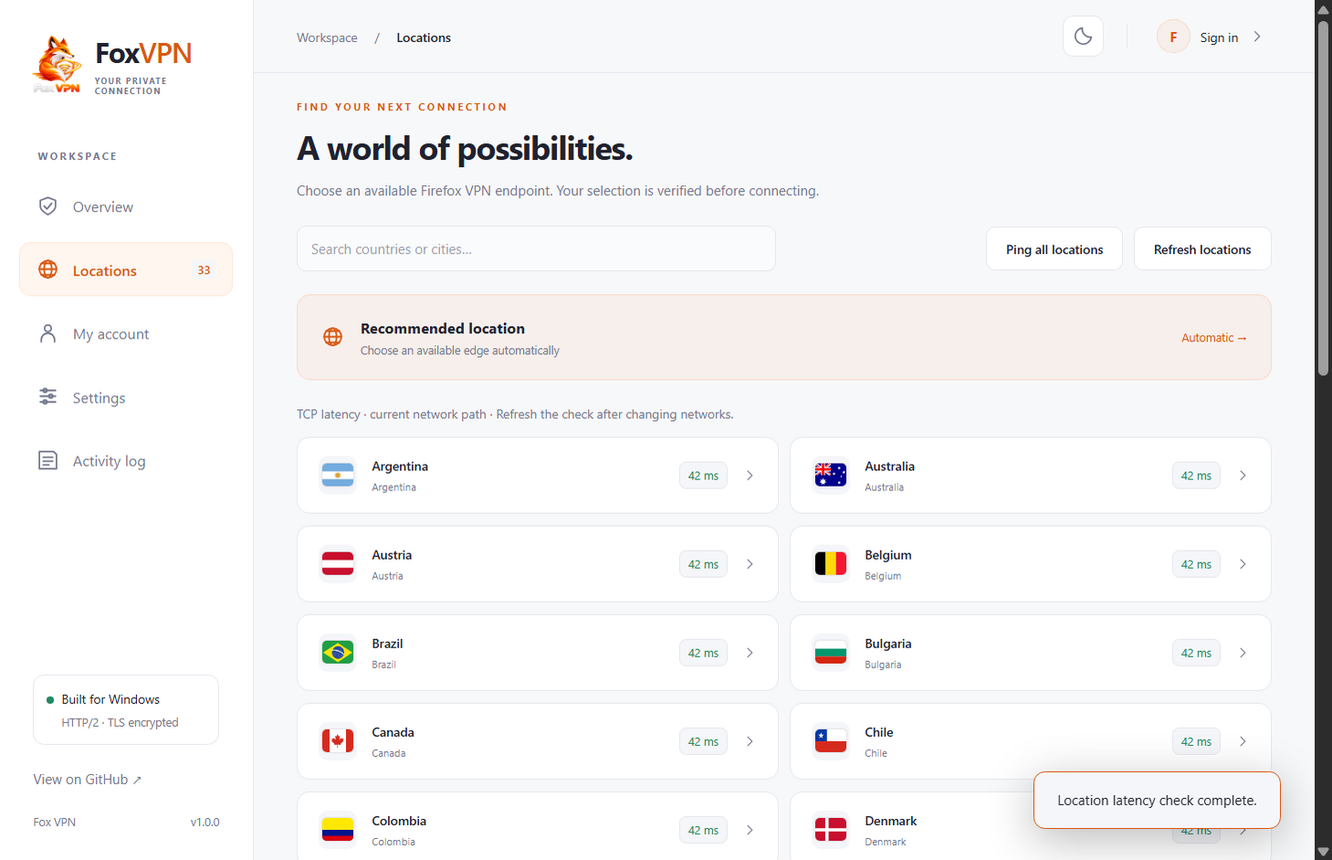
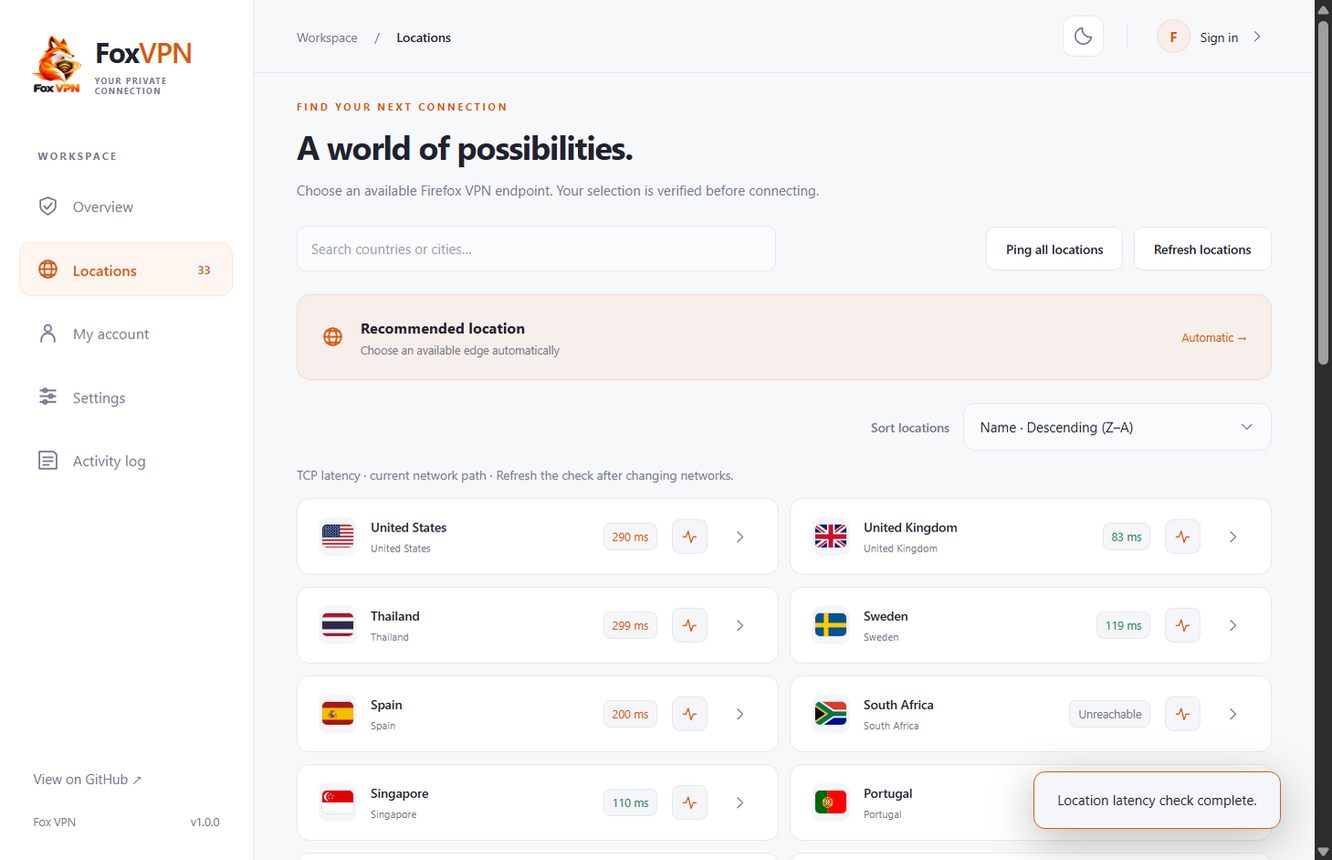
Add architecture-matched Windows builds and improve location controls

diff --git a/src/ui/index.html b/src/ui/index.html
@@ -14,6 +14,7 @@
   <symbol id="glyph-moon" viewBox="0 0 24 24"><path d="M20.5 13A8.5 8.5 0 0 1 11 3.5 8.5 8.5 0 1 0 20.5 13Z"/></symbol>
   <symbol id="glyph-download" viewBox="0 0 24 24"><path d="M12 3v14m-5-5 5 5 5-5M4 20h16"/></symbol>
   <symbol id="glyph-upload" viewBox="0 0 24 24"><path d="M12 21V7m-5 5 5-5 5 5M4 3h16"/></symbol>
+  <symbol id="glyph-ping" viewBox="0 0 24 24"><path d="M3 12h4l3-8 4 16 3-8h4"/></symbol>
   <symbol id="glyph-clock" viewBox="0 0 24 24"><circle cx="12" cy="12" r="9"/><path d="M12 7v5l3 2"/></symbol>
 </defs></svg>
 <aside class="sidebar">
@@ -26,7 +27,7 @@
     <button data-page="settings" class="nav-item"><svg><use href="#glyph-settings"/></svg>Settings</button>
     <button data-page="logs" class="nav-item"><svg><use href="#glyph-logs"/></svg>Activity log</button>
   </nav>
-  <div class="sidebar-bottom"><div class="engine-badge"><span class="small-dot"></span>Built for Windows<small>HTTP/2 · TLS encrypted</small></div><button id="source" class="subtle">View on GitHub ↗</button><div class="version">Fox VPN <span>v1.0.0</span></div></div>
+  <div class="sidebar-bottom"><button id="source" class="subtle">View on GitHub ↗</button><div class="version">Fox VPN <span>v1.0.0</span></div></div>
 </aside>
 <div class="workspace">
   <header><div class="breadcrumbs">Workspace <span>/</span> <strong id="page-label">Overview</strong></div><div class="header-actions"><button id="theme-toggle" class="icon-button" title="Toggle appearance" aria-label="Toggle dark and light theme"><svg><use href="#glyph-sun"/></svg></button><span class="header-divider"></span><button id="account-shortcut" class="account-chip"><span class="avatar">F</span><span id="account-name">Sign in</span><svg><use href="#glyph-arrow"/></svg></button></div></header>
@@ -53,10 +54,10 @@
       <div class="metrics"><div class="metric"><span class="metric-icon"><svg><use href="#glyph-download"/></svg></span><div><small>DOWNLOADED</small><strong id="downloaded">0 B</strong><em id="download-speed">0 B/s</em></div></div><div class="metric"><span class="metric-icon"><svg><use href="#glyph-upload"/></svg></span><div><small>UPLOADED</small><strong id="uploaded">0 B</strong><em id="upload-speed">0 B/s</em></div></div><div class="metric"><span class="metric-icon"><svg><use href="#glyph-clock"/></svg></span><div><small>SESSION TIME</small><strong id="session-time">00:00:00</strong><em>Current connection</em></div></div></div>
       <div class="info-strip"><span class="small-dot"></span><span id="home-info">Sign in with your Firefox account to get started.</span><button id="home-account" class="text-button">Manage account →</button></div>
     </section>
-    <section id="locations" class="page"><div class="page-heading"><div class="eyebrow">FIND YOUR NEXT CONNECTION</div><h1>A world of possibilities.</h1><p>Choose an available Firefox VPN endpoint. Your selection is verified before connecting.</p></div><div class="toolbar"><input id="server-search" type="search" placeholder="Search countries or cities…" aria-label="Search locations"><div class="button-row"><button id="ping-servers" class="secondary">Ping all locations</button><button id="refresh-servers" class="secondary">Refresh locations</button></div></div><button id="recommended" class="recommended"><svg><use href="#glyph-globe"/></svg><div><strong>Recommended location</strong><small>Choose an available edge automatically</small></div><span>Automatic →</span></button><p id="ping-status" class="muted">TCP latency from your current network path. Run a check to compare locations.</p><div id="server-list" class="server-list"></div><p class="muted" id="server-empty">Loading available locations…</p></section>
+    <section id="locations" class="page"><div class="page-heading"><div class="eyebrow">FIND YOUR NEXT CONNECTION</div><h1>A world of possibilities.</h1><p>Choose an available Firefox VPN endpoint. Your selection is verified before connecting.</p></div><div class="toolbar"><input id="server-search" type="search" placeholder="Search countries or cities…" aria-label="Search locations"><div class="button-row"><button id="ping-servers" class="secondary">Ping all locations</button><button id="refresh-servers" class="secondary">Refresh locations</button></div></div><button id="recommended" class="recommended"><svg><use href="#glyph-globe"/></svg><div><strong>Recommended location</strong><small>Choose an available edge automatically</small></div><span>Automatic →</span></button><div class="location-sort"><label for="server-sort">Sort locations</label><select id="server-sort"><option value="name-asc">Name · Ascending (A–Z)</option><option value="name-desc">Name · Descending (Z–A)</option><option value="ping-asc">Ping · Ascending (lowest first)</option><option value="ping-desc">Ping · Descending (highest first)</option></select></div><p id="ping-status" class="muted">TCP latency from your current network path. Run a check to compare locations.</p><div id="server-list" class="server-list"></div><p class="muted" id="server-empty">Loading available locations…</p></section>
     <section id="account" class="page"><div class="page-heading"><div class="eyebrow">YOUR PERSONAL SPACE</div><h1>Your Firefox account.</h1><p>Use your existing account to access Firefox VPN infrastructure.</p></div>
       <div id="signin-panel" class="account-layout"><div class="form-card"><div class="card-icon"><svg><use href="#glyph-account"/></svg></div><h2>Welcome to Fox VPN</h2><p>Sign in to establish your private connection.</p><form id="login-form"><label>Email address<input id="email" type="email" autocomplete="username" placeholder="you@example.com" required></label><label>Password<input id="password" type="password" autocomplete="current-password" placeholder="Enter your password" required></label><button class="primary" type="submit" id="login-button">Sign in to Firefox</button></form><form id="code-form" hidden><label>Verification code<input id="code" autocomplete="one-time-code" placeholder="Code from your email" required></label><button type="submit" class="primary">Verify and continue</button><button id="restart-login" type="button" class="subtle">Start sign-in again</button></form><button id="create-account" class="text-button">Create a Firefox account ↗</button><p class="form-note">Passwords are used for sign-in only and never saved. Session tokens are encrypted using Windows.</p></div><div class="account-story"><img data-theme-logo src="../../assets/logo.png" alt="Fox VPN"><h2>A familiar account.<br>A fresh perspective.</h2><p>Independent. Open source. Built for Windows.</p><div class="story-features"><span>✓ No Fox VPN subscription</span><span>✓ Firefox account verification</span><span>✓ Encrypted local credentials</span></div><p class="muted">Availability, region access and monthly allowances are controlled by Mozilla. Fox VPN is not affiliated with Mozilla.</p></div></div>
-      <div id="signedin-panel" hidden><div class="form-card wide"><span class="pill">FIREFOX ACCOUNT</span><h2 id="signedin-email"></h2><p>Your session is stored securely on this Windows device.</p><div class="account-stats" id="account-stats">Refresh to view your current account entitlement.</div><div class="button-row"><button id="refresh-account" class="primary">Refresh account</button><button id="activate-account" class="secondary">Activate entitlement</button><button id="manage-subscription" class="secondary">Manage subscription ↗</button><button id="logout" class="secondary danger">Sign out</button></div></div></div>
+      <div id="signedin-panel" hidden><div class="form-card wide"><span class="pill">FIREFOX ACCOUNT</span><h2 id="signedin-email"></h2><p>Your session is stored securely on this Windows device.</p><div class="account-stats" id="account-stats">Refresh to view your current account entitlement.</div><div class="button-row"><button id="refresh-account" class="primary">Refresh account</button><button id="activate-account" class="secondary" title="Request activation of your account’s VPN service access. Mozilla determines eligibility.">Activate entitlement</button><button id="manage-subscription" class="secondary">Manage subscription ↗</button><button id="logout" class="secondary danger">Sign out</button></div></div></div>
     </section>
     <section id="settings" class="page"><div class="page-heading"><div class="eyebrow">MAKE IT YOURS</div><h1>Fine-tune your connection.</h1><p>Changes take effect on your next connection. Disconnect before saving network settings.</p></div><form id="settings-form">
       <div class="settings-card"><h3>Appearance</h3><p>A comfortable view, day or night.</p><div class="setting-row"><label for="theme">Color theme</label><select id="theme"><option value="system">Follow system</option><option value="dark">Dark</option><option value="light">Light</option></select></div></div>

diff --git a/src/ui/app.js b/src/ui/app.js
@@ -19,7 +19,7 @@ function applyTheme(s) {
   $('theme-toggle').replaceChildren(icon(light?'moon':'sun'));
   $('theme-toggle').title=light?'Switch to dark theme':'Switch to light theme';
   $('theme-toggle').setAttribute('aria-label',$('theme-toggle').title);
-  document.querySelectorAll('[data-theme-logo]').forEach(img=>{const src=`../../assets/${light?'logo-light':'logo'}.png`;if(img.getAttribute('src')!==src)img.src=src;});
+  document.querySelectorAll('[data-theme-logo]').forEach(img=>{const src=`../../assets/${light?'logo':'logo-light'}.png`;if(img.getAttribute('src')!==src)img.src=src;});
 }
 function countryName(code) {try{return new Intl.DisplayNames(['en'],{type:'region'}).of(code);}catch{return code;}}
 function automaticServer(server) {return /recom+end|anycast/i.test(server.country+' '+server.city)||server.code==='REC';}
@@ -63,11 +63,11 @@ function render(s) {
   $('login-button').disabled=s.busy;
   $('home-info').textContent=s.lastError||(s.signedIn?(s.quota?.remaining?`${bytes(s.quota.remaining)} remaining in your current service allowance.`:'Your Firefox account is ready. Choose a location and connect.'):'Sign in with your Firefox account to get started.');
   $('settings-notice').textContent=s.connection==='disconnected'?'Credentials are encrypted on this device.':'Disconnect before saving network preferences.';
-  $('ping-servers').disabled=s.pinging;
+  $('ping-servers').disabled=s.pinging||(s.pingingIds||[]).length>0;
   $('ping-servers').textContent=s.pinging?'Checking latency…':'Ping all locations';
   const measured=Object.keys(s.latencies||{}).length;
   $('ping-status').textContent=s.pinging?`Checking endpoints · ${measured} / ${s.servers.length}`:measured?'TCP latency · current network path · Refresh the check after changing networks.':'TCP latency from your current network path. Run a check to compare locations.';
-  const serverKey=JSON.stringify([s.servers,s.latencies,s.pinging])+s.settings.serverId;if(serverKey!==lastServers){lastServers=serverKey;renderServers();}
+  const serverKey=JSON.stringify([s.servers,s.latencies,s.pinging,s.pingingIds])+s.settings.serverId;if(serverKey!==lastServers){lastServers=serverKey;renderServers();}
   const logKey=JSON.stringify(s.logs);if(logKey!==lastLogs){lastLogs=logKey;renderLogs();}
 }
 function icon(name) {const svg=document.createElementNS('http://www.w3.org/2000/svg','svg');const use=document.createElementNS('http://www.w3.org/2000/svg','use');use.setAttribute('href','#glyph-'+name);svg.append(use);return svg;}
@@ -79,18 +79,28 @@ function flag(code,country) {
 function renderServers() {
   if(!currentState)return;
   const query=$('server-search').value.toLowerCase(),seen=new Set();
-  const servers=currentState.servers.filter(s=>{if(automaticServer(s))return false;const key=s.code+'/'+s.cityCode;if(seen.has(key))return false;seen.add(key);return `${s.country} ${s.city} ${s.code}`.toLowerCase().includes(query);}).sort((a,b)=>a.country.localeCompare(b.country)||a.city.localeCompare(b.city));
+  const servers=currentState.servers.filter(s=>{if(automaticServer(s))return false;const key=s.code+'/'+s.cityCode;if(seen.has(key))return false;seen.add(key);return `${s.country} ${s.city} ${s.code}`.toLowerCase().includes(query);}).sort((a,b)=>{
+    const mode=$('server-sort').value,byName=a.country.localeCompare(b.country)||a.city.localeCompare(b.city);
+    if(mode.startsWith('name'))return mode==='name-desc'?-byName:byName;
+    const left=currentState.latencies?.[a.id]?.ms,right=currentState.latencies?.[b.id]?.ms;
+    const leftKnown=Number.isFinite(left),rightKnown=Number.isFinite(right);
+    if(leftKnown!==rightKnown)return leftKnown?-1:1;
+    return leftKnown&&left!==right?(mode==='ping-desc'?right-left:left-right):byName;
+  });
   $('server-list').replaceChildren();
   for(const server of servers) {
-    const button=document.createElement('button');button.className='server-row'+(currentState.settings.serverId.startsWith(server.code+'/'+server.cityCode+'/')?' selected':'');
+    const row=document.createElement('div');row.className='server-row'+(currentState.settings.serverId.startsWith(server.code+'/'+server.cityCode+'/')?' selected':'');
+    const button=document.createElement('button');button.className='server-choice';button.dataset.serverId=server.id;
     const code=document.createElement('span');code.className='country-code';code.append(flag(server.code,server.country));
     const text=document.createElement('div'),strong=document.createElement('strong'),small=document.createElement('small');strong.textContent=server.country;small.textContent=server.city;text.append(strong,small);
     const latency=document.createElement('span');latency.className='latency';
     const result=currentState.latencies?.[server.id];
-    latency.textContent=result?(result.ms===null?'Unreachable':`${result.ms} ms`):currentState.pinging?'Checking…':'— ms';
+    latency.textContent=result?(result.ms===null?'Unreachable':`${result.ms} ms`):(currentState.pinging||(currentState.pingingIds||[]).includes(server.id))?'Checking…':'— ms';
     if(result?.ms!=null)latency.classList.add(result.ms<150?'fast':result.ms<350?'moderate':'slow');
     latency.title='TCP connection time, including DNS, through your current network path';
-    button.append(code,text,latency,icon('arrow'));button.addEventListener('click',action(async()=>{await call('select',server.id);navigate('home');toast(`Selected ${server.city}, ${server.country}`);}));$('server-list').append(button);
+    button.append(code,text,latency);button.addEventListener('click',action(async()=>{await call('select',server.id);navigate('home');toast(`Selected ${server.city}, ${server.country}`);}));const ping=document.createElement('button');ping.className='server-ping icon-button';ping.type='button';ping.setAttribute('aria-label',`Ping ${server.city}, ${server.country}`);ping.title=`Ping ${server.country}`;ping.append(icon('ping'));
+    ping.disabled=currentState.pinging||(currentState.pingingIds||[]).includes(server.id);
+    ping.addEventListener('click',action(async()=>{await call('ping',server.id);}));const choose=document.createElement('button');choose.type='button';choose.className='server-select icon-button';choose.setAttribute('aria-label',`Select ${server.city}, ${server.country}`);choose.title=`Select ${server.country}`;choose.append(icon('arrow'));choose.addEventListener('click',()=>button.click());row.append(button,ping,choose);$('server-list').append(row);
   }
   $('server-empty').hidden=servers.length>0;$('server-empty').textContent=query?'No matching locations.':'No locations loaded. Refresh to fetch the live server list.';
 }
@@ -148,6 +158,7 @@ $('source').addEventListener('click',action(()=>call('openLink','source')));
 $('create-account').addEventListener('click',action(()=>call('openLink','account')));
 $('refresh-servers').addEventListener('click',action(async()=>{$('refresh-servers').disabled=true;try{await call('servers');toast('Locations updated.');}finally{$('refresh-servers').disabled=false;}}));
 $('server-search').addEventListener('input',renderServers);
+$('server-sort').addEventListener('change',renderServers);
 $('recommended').addEventListener('click',action(async()=>{await call('select','REC');navigate('home');}));
 $('verify-exit').addEventListener('click',action(async()=>{const result=await call('exit');toast(`Exit verified · ${result.ip} · ${result.country}`);}));
 $('login-form').addEventListener('submit',action(async e=>{e.preventDefault();const email=$('email').value.trim(),password=$('password').value;$('password').value='';const result=await call('login',{email,password});needsCode=result.needsCode;render(await call('state'));if(needsCode){$('code').focus();toast('Enter the verification code sent to your Firefox account email.');}else{toast('Signed in successfully.');navigate('home');}}));

diff --git a/src/ui/styles.css b/src/ui/styles.css
@@ -5,3 +5,7 @@
 .globe-visual svg{width:auto;max-width:100%;height:100%;aspect-ratio:1;flex-shrink:0}
 .server-row>svg{margin-left:0}.server-row>div{min-width:0}.latency{margin-left:auto;white-space:nowrap;font-size:10px;font-variant-numeric:tabular-nums;color:var(--muted);background:var(--card-alt);border:1px solid var(--line);border-radius:6px;padding:5px 7px}.latency.fast{color:var(--green)}.latency.moderate{color:var(--orange)}.latency.slow{color:#ef7777}
 .select-control{position:relative;min-width:190px;max-width:100%;font-weight:400}.select-trigger{display:flex;align-items:center;justify-content:space-between;gap:20px;width:100%;padding:12px 14px;color:var(--text);background:var(--input);border:1px solid var(--line);border-radius:10px;font-size:12px;text-align:left;transition:border-color .15s,box-shadow .15s}.select-trigger:hover{border-color:var(--orange)}.select-trigger[aria-expanded=true]{border-color:var(--orange);box-shadow:0 0 0 3px var(--orange-soft)}.select-trigger svg{width:14px;height:14px;transform:rotate(90deg);color:var(--muted)}.select-trigger[aria-expanded=true] svg{transform:rotate(-90deg);color:var(--orange)}.select-menu{position:absolute;top:calc(100% + 7px);left:0;right:0;z-index:30;background:var(--card);border:1px solid var(--line);border-radius:12px;padding:6px;box-shadow:0 14px 36px #0003;max-height:260px;overflow-y:auto}.select-option{width:100%;display:block;text-align:left;background:none;border:0;color:var(--text);border-radius:7px;padding:11px 12px;font-size:12px}.select-option:hover,.select-option:focus-visible{background:var(--card-alt);outline:0}.select-option[aria-selected=true]{background:var(--orange-soft);color:var(--orange);font-weight:600}.select-option[aria-selected=true]:after{content:'✓';float:right;margin-left:12px}label>.select-control{margin-top:8px}.setting-row>.select-control{width:220px}.field-grid .select-control{width:100%}.toolbar .select-control{width:210px}.server-selector em{max-width:300px;overflow:hidden;text-overflow:ellipsis;white-space:nowrap}
+
+.location-sort{display:flex;justify-content:flex-end;align-items:center;gap:12px;margin:0 0 12px}.location-sort .select-control{width:270px}.location-sort label{color:var(--muted)}.server-choice{display:flex;align-items:center;gap:12px;flex:1;min-width:0;border:0;background:transparent;color:inherit;padding:0;text-align:left}.server-choice>div{min-width:0;flex:1}.server-choice strong{overflow-wrap:anywhere}.server-choice>svg{width:12px;height:12px;color:var(--muted)}.server-ping{padding:7px;border-radius:7px;background:var(--card-alt);color:var(--orange)}.server-ping svg{width:15px;height:15px}.server-ping:hover{border-color:var(--orange)}
+
+.server-select{padding:7px;border-color:transparent;background:transparent;color:var(--muted)}.server-select svg{width:15px;height:15px}.server-select:hover{color:var(--orange);border-color:var(--line)}

diff --git a/RELEASE_NOTES.md b/RELEASE_NOTES.md
@@ -1,20 +1,24 @@
-Windows x64 maintenance release of **Fox VPN**, an independent desktop application.
+Windows maintenance release of **Fox VPN**, an independent desktop application.
 
 ### Downloads
 
-- `FoxVPN-1.0.0-x64.exe` — Windows installer.
-- `FoxVPN-1.0.0-x64.zip` — portable application; extract the entire ZIP and run `Fox VPN.exe`.
-- `sing-box-1.12.0-source.tar.gz` — corresponding source of the separately bundled GPL network engine.
-- `SHA256SUMS.txt` — checksums for the downloadable files.
+Choose the installer (`.exe`) or portable archive (`.zip`) for your Windows architecture:
 
-### Changes in v1.0.0
+- `FoxVPN-1.0.0-x64` — 64-bit Intel/AMD Windows PCs.
+- `FoxVPN-1.0.0-x86` — 32-bit Intel/AMD Windows; also runs under WOW64.
+- `FoxVPN-1.0.0-arm64` — native Windows on ARM devices.
+- `sing-box-1.12.0-source.tar.gz` — corresponding source for the separate GPL engine.
+- `SHA256SUMS.txt` — checksums for all downloads.
 
-- Light-theme logo and matching Windows executable/installer icon.
-- Sun/moon appearance toggle, circular globe and corrected account icons.
-- Custom keyboard-accessible dropdown menus in both themes.
-- Ping all locations with incremental TCP latency results and unreachable status.
-- Hide service-recommended/anycast entries from the country list while retaining automatic selection. Show the active endpoint and verified exit country after an automatic connection.
-- Repository link now reads “View on GitHub”.
+Portable users must extract the entire ZIP, then run `Fox VPN.exe`.
+
+### Latest changes in v1.0.0
+
+- Black Fox wordmark logo in light mode; white Fox wordmark logo in dark mode. The executable icon retains the supplied white-wordmark version.
+- Removed the sidebar “Built for Windows” card.
+- Name and ping sorting, ascending and descending; unmeasured/unreachable results stay at the bottom when sorting by ping.
+- Individual location ping buttons, alongside the existing all-location check.
+- x86, x64 and ARM64 packages with architecture-matched Electron, sing-box and Wintun binaries. x86 uses Electron 43.7.9, the final Electron major series supporting Windows 32-bit; x64/ARM64 use Electron 44.7.0.
 
 ### Included
 
@@ -22,7 +26,7 @@ English orange-accented UI, dark/light/system themes, Firefox account sign-in an
 
 ### Requirements and validation
 
-Windows 10/11 x64. System VPN needs Administrator access. The app includes the pinned engine and Wintun driver; binaries are unsigned.
+Windows 10/11 for x86/x64; Windows 11 for ARM64. System VPN needs Administrator access. The app includes the pinned engine and Wintun driver; binaries are unsigned.
 
 Protocol tests include real local TLS + HTTP/2 CONNECT and tunneled HTTPS, fragmented SOCKS5 handshakes, token lifecycle and encrypted storage. Live Mozilla server discovery is verified, and the pinned Windows engine validates generated configurations. See `VALIDATION.md` in the source for the full verification record.
 

diff --git a/README.md b/README.md
@@ -14,7 +14,7 @@ Screenshots are UI test previews; latency values in the location preview are ill
 
 ## Download
 
-Get **v1.0.0** from [Releases](https://github.com/erfan-tahvilian/FoxVPN/releases). The Windows x64 installer and portable ZIP include the network engine and driver. Windows 10/11 x64 is required. The executable requests Administrator access for system VPN mode. Builds are currently unsigned.
+Get **v1.0.0** from [Releases](https://github.com/erfan-tahvilian/FoxVPN/releases). The Windows x64 installer and portable ZIP include the network engine and driver. Windows 10/11 x86/x64 or Windows 11 ARM64 is required. The executable requests Administrator access for system VPN mode. Builds are currently unsigned.
 
 ## Features
 
@@ -85,3 +85,19 @@ Architecture: Electron main process owns authentication, encrypted storage, netw
 See [CHANGELOG.md](CHANGELOG.md) and [VALIDATION.md](VALIDATION.md).
 
 Location latency uses a bounded TCP connection check to every endpoint from the current network path (including DNS lookup), with results in milliseconds. It does not measure ICMP round-trip time or throughput. Service-recommended/anycast entries are hidden from the country list; the automatic card remains available and a connected automatic session displays the verified exit country.
+
+## Windows architectures
+
+| Architecture | Hardware | Download names | Electron |
+| --- | --- | --- | --- |
+| x64 | 64-bit Intel/AMD | `FoxVPN-1.0.0-x64.exe` / `.zip` | 44.7.0 |
+| x86 | 32-bit Intel/AMD, WOW64 | `FoxVPN-1.0.0-x86.exe` / `.zip` | 43.7.9 |
+| ARM64 | Windows on ARM | `FoxVPN-1.0.0-arm64.exe` / `.zip` | 44.7.0 |
+
+Electron 44 removed Windows x86 builds. The x86 package uses the last supported 43 series, as documented by [Electron](https://www.electronjs.org/blog/electron-43-0). These are separate native Windows packages, each with a matching sing-box executable and Wintun DLL; architecture is verified through PE headers before and after packaging. ARM32 is not supported by Electron on Windows.
+
+To build a target, set `FOX_TARGET_ARCH` to `x64`, `ia32` (x86), or `arm64`, then run `node scripts/prepare-electron.cjs`, `npm run engine`, `npm run smoke`, and `npm run dist`. Run smoke/config checks on a compatible host (ARM64 needs Windows on ARM). The CI matrix uses x64 Windows hosts for x64/x86 and a native ARM64 Windows host for ARM64.
+
+Locations can be sorted by name or TCP latency in either direction. Unknown and unreachable latency results stay last. The small waveform button on each row checks only that endpoint without selecting it or changing an active VPN session.
+
+“Activate entitlement” requests activation of the signed-in account’s VPN access via Mozilla. Eligibility and allowance are controlled by the service; it does not purchase a subscription. Connection setup also attempts activation automatically if the pass endpoint requires it.

diff --git a/VALIDATION.md b/VALIDATION.md
@@ -26,3 +26,9 @@ The installer is unsigned. This release makes no claim of a persistent kill swit
 - Electron renderer smoke checks cover supplied theme logos, sun/moon glyphs, circular globe geometry, all custom select controls, selecting options, duplicate service recommendations, incremental latency badges and a simulated automatic connection with an authoritative Canadian exit. These fixtures do not claim a live VPN connection.
 - Actual main-process sandboxed IPC and DPAPI checks pass.
 - Live public discovery and TCP checks reached all 34 endpoints on this machine; no account credentials were used.
+
+## Current locations and architecture update
+
+- Renderer assertions cover the corrected theme logos, absence of the platform badge, both directions of name/latency sorting, unknown results last, and individual ping without location selection or navigation.
+- PE architecture checks verify that Electron, sing-box and Wintun match each requested target, then verify the packaged app/engine/driver again.
+- CI executes x86 Electron smoke checks on x64 Windows via WOW64 and ARM64 smoke/config checks on a native ARM64 Windows runner. These checks do not represent an authenticated production VPN/TUN session.

diff --git a/CHANGELOG.md b/CHANGELOG.md
@@ -1,5 +1,12 @@
 # Changelog
 
+## v1.0.0 — Multi-architecture and locations update, 2026-10-11
+
+- Corrected light/dark logo mapping while keeping the executable icon.
+- Removed the sidebar platform badge.
+- Added ascending/descending name and latency sorting and per-location TCP checks.
+- Added native ARM64 and x86 packages with matching engine/driver resources and PE validation.
+
 ## v1.0.0 — UI update, 2026-10-11
 
 - Added location TCP latency checks and clear automatic connection destinations.
